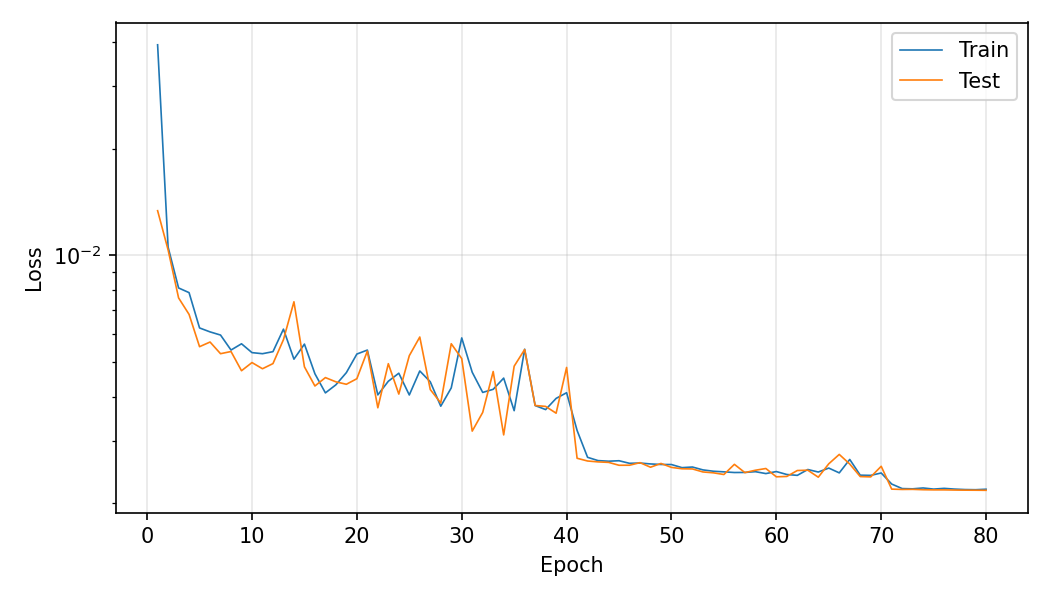
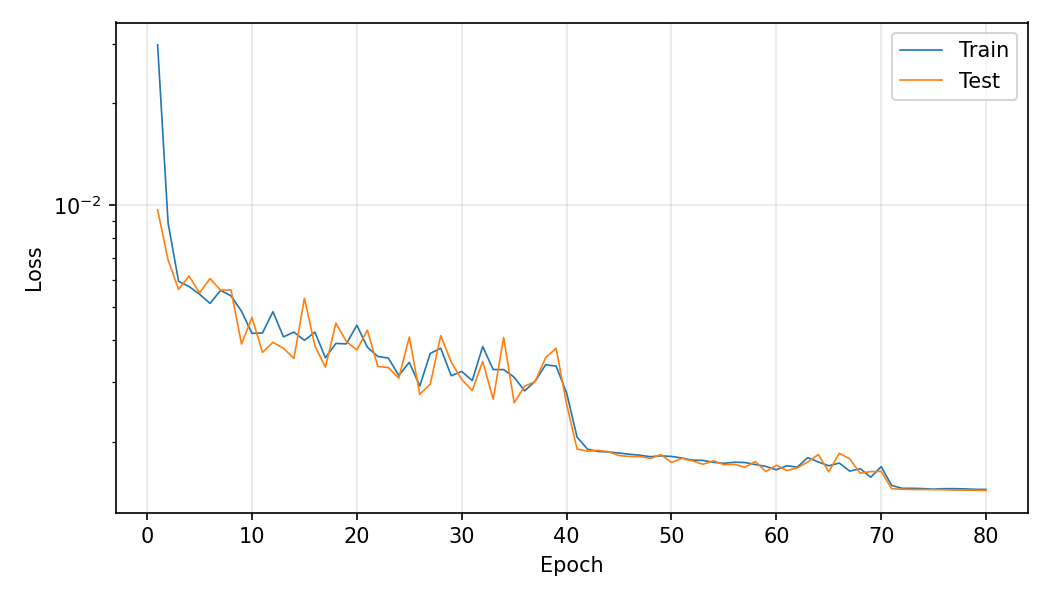
Skip warmup phase (T<4) for wave_2d_nonlinear; update report with latest results
- Add warmup_T=4.0 to config: training data excludes frames before T=4
- gen_data.py: t0 lower bound set to t_warmup index
- compare.py: spectral solver warmed up to warmup_T before rollout starts
- Re-run pipeline; update report figures, error metrics, and timings

diff --git a/latex/report.tex b/latex/report.tex
@@ -100,6 +100,8 @@ All parameters are defined in the \texttt{config/} module; below we summarize th
     $g$, $h_0$ & 9.8, 1.0 \\
     $T_{\mathrm{screen}}$ & 10 \\
     $n_{\mathrm{wd}}$ & 32 \\
+    Warmup $T_{\mathrm{warmup}}$ & 4.0 (early frames excluded) \\
+    Compare $T_F$ & 1.0 \\
     Compare IC & random \\
     \midrule
     Training samples & 6000 \\
@@ -175,7 +177,7 @@ Comparison at 6 aligned frames (config: \texttt{compare\_TF=1.0}, \texttt{compar
 \end{figure}
 
 \subsection{2D nonlinear shallow water: Spectral vs.\ NN}
-Comparison at 6 aligned frames for state $(h-h_0,q_x,q_y)$ (config: \texttt{compare\_TF=1.0}, \texttt{compare\_ic=random}, $n_{\mathrm{jp}}=2$). Reference: spectral; surrogate: CNN. L1 error (mean over frames) $0.028712$ (max frame $0.049520$). Runtimes (this run): Spectral $29.917$\,s, NN $1.5156$\,s (speedup $19.74\times$).
+Comparison at 6 aligned frames for state $(h-h_0,q_x,q_y)$ (config: \texttt{compare\_TF=1.0}, \texttt{compare\_ic=random}, $n_{\mathrm{jp}}=2$). Both reference and NN rollout start from $T=4.0$ (warmup phase $t\in[0,4]$ excluded). Reference: spectral; surrogate: CNN. L1 error (mean over frames) $0.014129$ (max frame $0.026497$). Runtimes (this run): Spectral $27.776$\,s, NN $1.2531$\,s (speedup $22.2\times$).
 
 \begin{figure}[H]
   \centering

diff --git a/compare.py b/compare.py
@@ -279,6 +279,11 @@ def _compare_wave_2d_nonlinear(data_dir, out_dir):
                 U_nn[ii * nwd : (ii + 1) * nwd, jj * nwd : (jj + 1) * nwd, :] = np.transpose(out, (1, 2, 0))
         return U_nn
 
+    # warm up spectral solver to T=warmup_T
+    warmup_steps = int(round(cfg.warmup_T / (cfg.TSCREEN * dt)))
+    for _ in range(warmup_steps):
+        h, qx, qy = advance_tscreen(h, qx, qy, rhs, dt, cfg.TSCREEN)
+
     initial_frame = np.stack([h - cfg.h0, qx, qy], axis=-1)
     U_nn = initial_frame.copy()
     spec_frames = [initial_frame]

diff --git a/gen_data.py b/gen_data.py
@@ -174,7 +174,8 @@ def run_wave_2d_nonlinear(data_dir):
         for _ in range(n_per_run):
             if cnt >= cfg.nsamp:
                 break
-            t0 = rng.integers(0, nt - cfg.njp)
+            t_warmup = int(round(cfg.warmup_T / cfg.dt_samp))
+            t0 = rng.integers(t_warmup, nt - cfg.njp)
             i0 = rng.integers(0, nx_ - 2 * nst - cfg.nwd + 1)
             j0 = rng.integers(0, ny_ - 2 * nst - cfg.nwd + 1)
             in_patch = U[i0 : i0 + 2 * nst + cfg.nwd, j0 : j0 + 2 * nst + cfg.nwd, :, t0]

diff --git a/config/wave_2d_nonlinear_config.py b/config/wave_2d_nonlinear_config.py
@@ -41,6 +41,8 @@ num_epochs = 80   # fewer epochs, better schedule → similar or better error, f
 base = 32        # CNN base channels (keep moderate size)
 lr_schedule = [(40, 3e-4), (70, 1e-4), (80, 1e-5)]
 
+warmup_T = 4.0   # frames before this time are excluded from training
+
 # Compare (reference vs NN rollout)
 compare_TF = 1.0
 compare_ic = "random"
